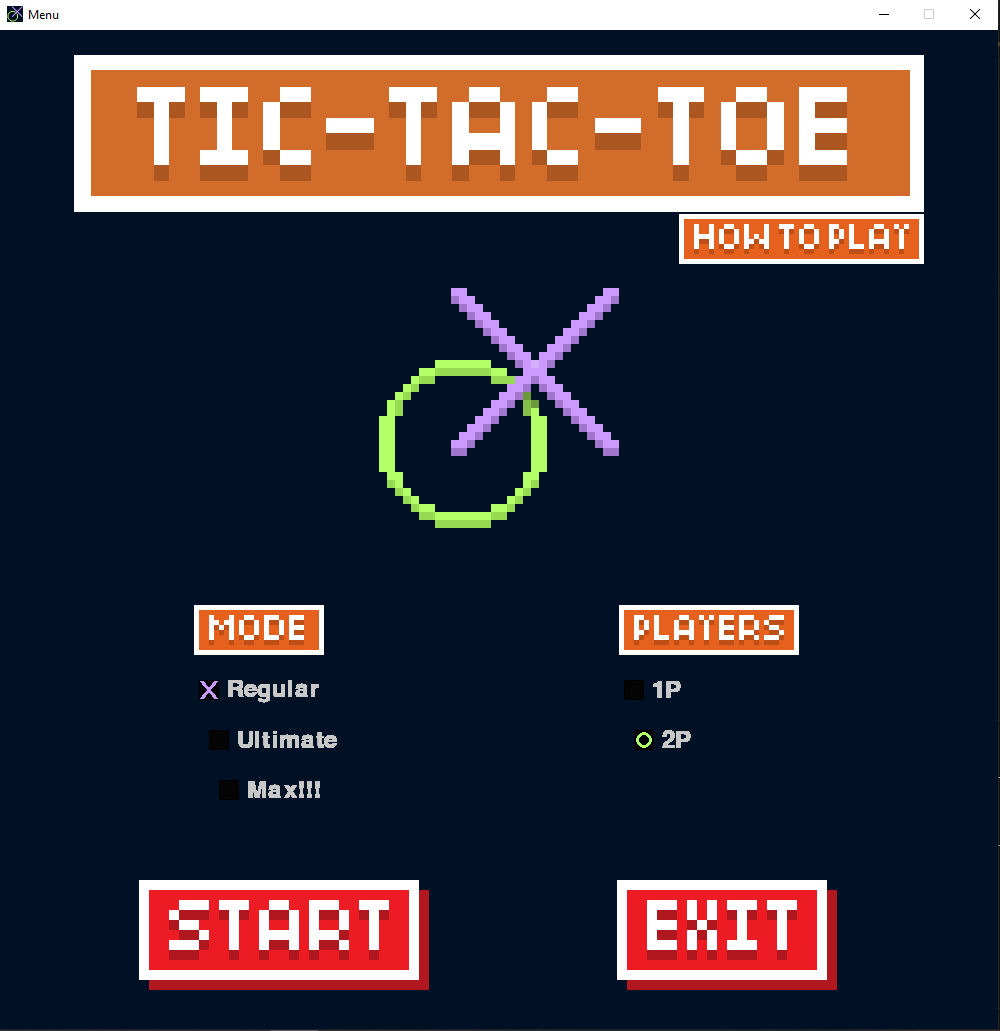
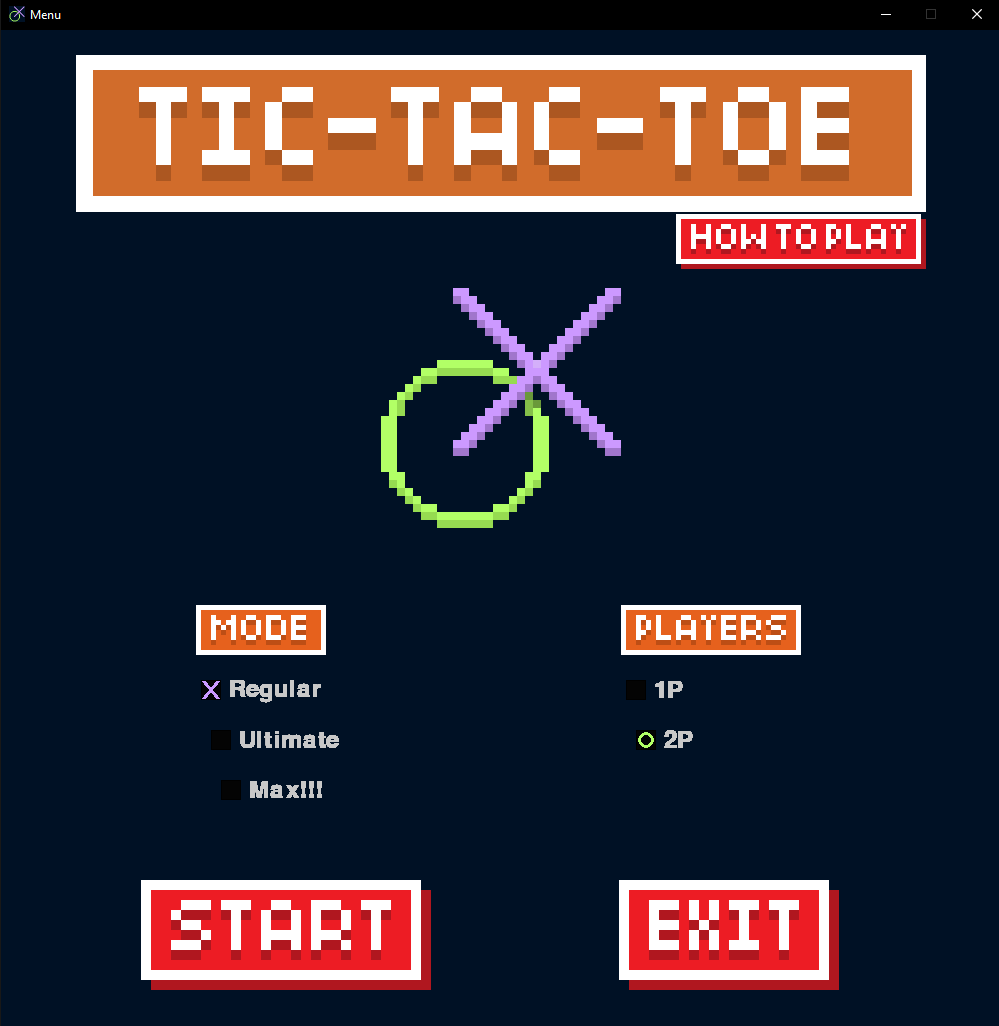
update README to new how to play and menu screen

diff --git a/README.md b/README.md
@@ -18,6 +18,9 @@ Use main.py as root script
 # Start menu
 <img src="./assets/Screenshots/screenshot1-menu.png">
 
+# How to play
+<img src="./assets/Screenshots/screenshot6-howtoplay.png">
+
 # Regular game 
 <img src="./assets/Screenshots/screenshot2-regular.png">
 
